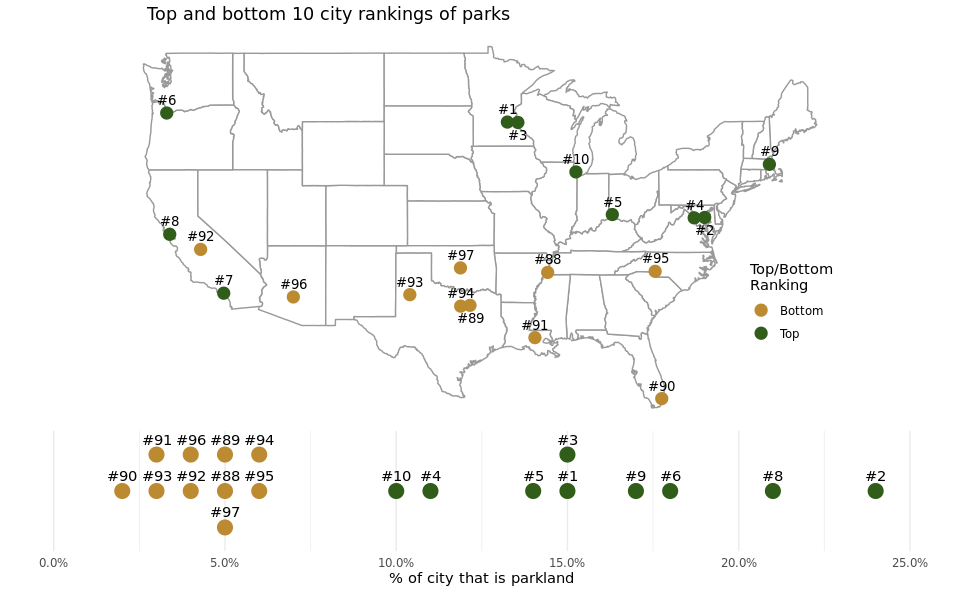
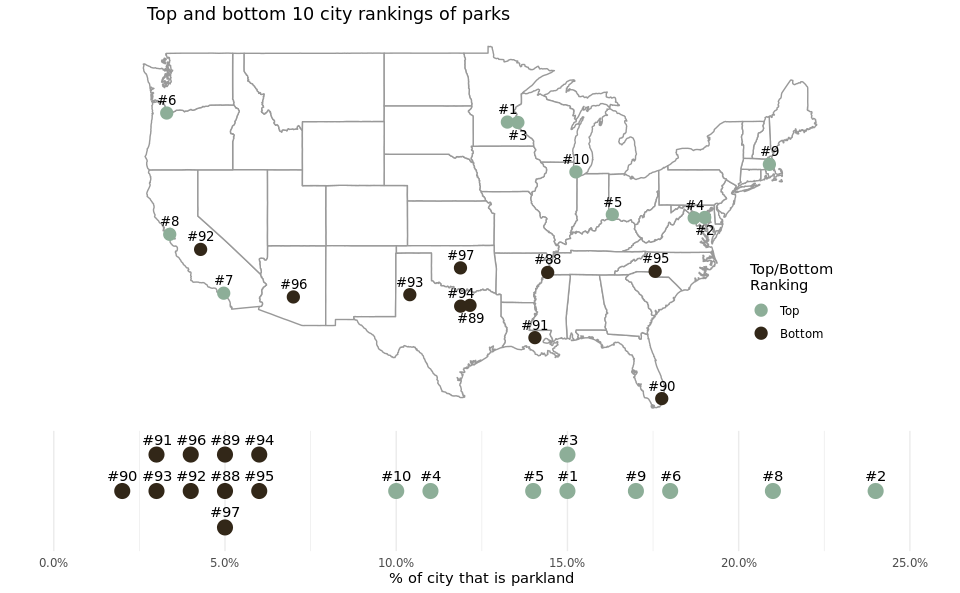
Knitted changes.

diff --git a/README.md b/README.md
@@ -253,25 +253,24 @@ this hypothesis holds true for New York for example, as it is one of the
 cities that is in the 4th quartile for spending, but in the 1st quartile
 for median park size.
 
-For the line plot over time, we suspected there would be significant
-differences among regions, due to different natural geography, urban
-planning, and values placed on public parks. The plot confirmed this
-hypothesis. In 2012, the Midwest, Southeast, and Southwest all spent
-under $90 per resident on average. Over the next 8 years, the Midwest
-increased their spending by \~$30 on average, the Southeast increased
-their spending \~$20 per resident, and the Southwest had no substantial
-increase or decrease in spending. The Northeast and West stood out in
-2012 with regards to average spending. The Northeast spent \~$115 per
-resident and the West spent \~$160 per resident. By 2020, both the West
-and Northeast were spending between \~$170 and \~$180 per resident, on
-average. There are few significant changes in mean median park size,
-except for some fluctuation within the Northeast and an increase in the
-Midwest in 2014. From this plot, we can conclude that while the West and
-Northeast do not have the most acreage of public parks in their cities,
-they are spending more per resident. The overall increase in spending
-over time, for all five regions, tells us that local politicians have
-both had the means and the will to increase local park budgets over the
-past eight years.
+For the line plot over time, we suspected the five regions would have
+different trends, due to different natural geography, urban planning,
+and values placed on public parks. The plot confirmed this hypothesis.
+In 2012, the Midwest, Southeast, and Southwest all spent under $90 per
+resident on average. Over the next 8 years, the Midwest increased their
+spending by \~$30 on average, the Southeast increased their spending
+\~$20 per resident, and the Southwest had no substantial increase or
+decrease in spending. The Northeast and West stood out in 2012 with
+regards to average spending. The Northeast spent \~$115 per resident and
+the West spent \~$160 per resident. By 2020, both the West and Northeast
+were spending between \~$170 and \~$180 per resident, on average. There
+are few changes in mean median park size, except for some fluctuation
+within the Northeast and an increase in the Midwest in 2014. From this
+plot, we can conclude that while the West and Northeast do not have the
+most acreage of public parks in their cities, they are spending more per
+resident. The overall increase in spending over time, for all five
+regions, tells us that local politicians have both had the means and the
+will to increase local park budgets over the past eight years.
 
 ## How many amenities do parks with the top 10 and bottom 10 rankings in 2020 have and how does this vary based on what proportion of the top 10 and bottom 10 cities’ land is parkland in 2020?
 
@@ -296,12 +295,13 @@ cities’ respective land is parkland.
 ### Approach
 
 In order to answer this question, we created a map of the United States
-with the top and bottom 10 ranked cities’ parks scaled by parkland to
-get a sense of both the geographic distribution of the top and bottom 10
-cities, but also how the top and bottom deciles and geographic regions
-vary by percentage of city that is parkland. A map was the obvious
-choice for this analysis at it is the most intuitive way to visualize
-spatial data in a manner familiar to most audiences.
+with the top and bottom 10 ranked cities’ parks alongside the
+distribution of percentage of their parkland to get a sense of both the
+geographic distribution of the top and bottom 10 cities, but also how
+the top and bottom deciles and geographic regions vary by percentage of
+city that is parkland. A map was the obvious choice for this analysis at
+it is the most intuitive way to visualize spatial data in a manner
+familiar to most audiences.
 
 We also created a visualization of 3 key amenities within these top and
 bottom 10 city parks (basketball courts, playgrounds, and restrooms) in
@@ -342,6 +342,9 @@ parks_2020_coords <- left_join(parks_2020, cities, by = "city")
 parks_2020_coords <- parks_2020_coords %>%
   mutate(rank_div = ifelse(rank <= 10, "Top", "Bottom"))
 
+parks_2020_coords$rank_div <- factor(parks_2020_coords$rank_div, levels = c(
+  "Top", "Bottom"))
+
 #dodging overlapping points
 parks_2020_coords <- parks_2020_coords %>%
   mutate(longitude = case_when(rank == 1 ~ -93.5,
@@ -373,7 +376,7 @@ map_plot <- ggplot() +
   geom_text(data = parks_2020_coords %>% filter(updown == "down"),
             aes(x = longitude, y = latitude, label = paste0("#",rank)),
             size = 3.5, vjust = 1.8, family = "bold") +
-  scale_color_manual(values = c("#bc8a31", "#315d1b")) + 
+  scale_color_manual(values = c("#8dae98", "#322718")) + 
   labs(x = NULL, y = NULL, color = "Top/Bottom\nRanking",
        title = "Top and bottom 10 city rankings of parks") +
   coord_map() + 
@@ -386,7 +389,7 @@ line_plot <- ggplot(parks_2020_coords, aes(x = as.numeric(str_extract(park_pct_c
                               y = y_height, color = rank_div)) +
   geom_point(size = 5, show.legend = FALSE) + 
   geom_text(aes(label = paste0("#",rank)), color = "black", vjust = -1) +
-  scale_color_manual(values = c("#bc8a31", "#315d1b")) + 
+  scale_color_manual(values = c("#8dae98", "#322718")) + 
   ylim(-1.5, 1.5) + 
   scale_x_continuous(labels = scales::percent, limits = c(0, .25)) +
   labs(x = "% of city that is parkland") + 
@@ -438,15 +441,15 @@ ggplot(data = parks_amenities, mapping = aes(y = reorder(city_n, -rank))) +
 
 The United States map visualization illustrates the location of the top
 10 and bottom 10 ranked cities. This plot demonstrates that the cities
-ranked 1-10 have a visually higher percentage of city land dedicated to
-parks than the lowest-ranked cities in the dataset. This conclusion is
-in line with our initial hypothesis. We expected cities with a high
-overall score, calculated by the number of amenities per 10k residents,
-median park size, spending per resident, etc., to also have more city
-land dedicated to public parks. The geographic distribution of the 20
-cities we plotted also provided interesting observations. The 10 cities
-with the lowest scores were all in the South and Southeast regions of
-the United States. The top 10 cities in 2020 are all in the Northeast,
+ranked 1-10 have a higher percentage of city land dedicated to parks
+than the lowest-ranked cities in the dataset. This conclusion is in line
+with our initial hypothesis. We expected cities with a high overall
+score, calculated by the number of amenities per 10k residents, median
+park size, spending per resident, etc., to also have more city land
+dedicated to public parks. The geographic distribution of the 20 cities
+we plotted also provided interesting observations. The 10 cities with
+the lowest scores were all in the South and Southeast regions of the
+United States. The top 10 cities in 2020 are all in the Northeast,
 Midwest, and the state of California. We assume that this might imply
 that local governments in these regions and state are more invested in
 creating higher-quality parks for their residents. Another possibility
